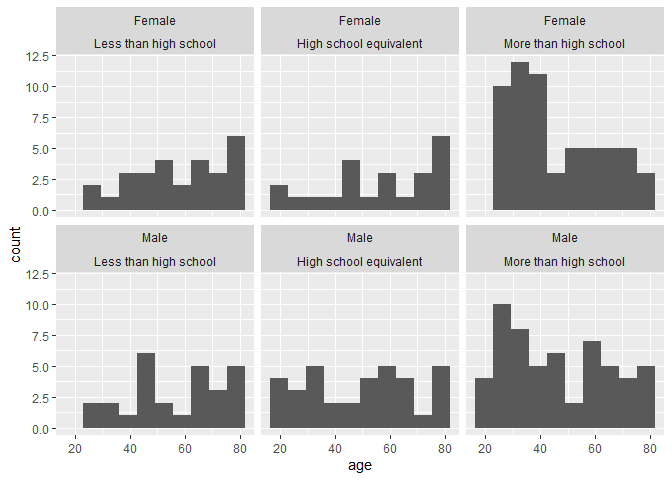
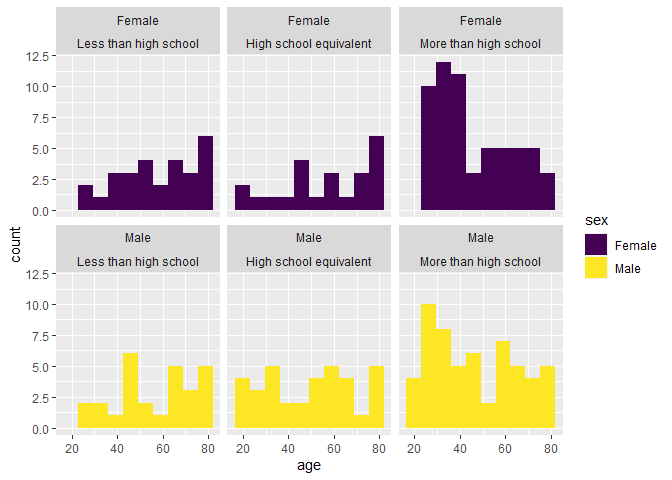
finish problem 3

diff --git a/p8105_hw3_lw3061.md b/p8105_hw3_lw3061.md
@@ -74,10 +74,11 @@ excellent_plot
 
     ## Warning: Removed 3 rows containing missing values (`geom_line()`).
 
-![](p8105_hw3_lw3061_files/figure-gfm/unnamed-chunk-4-1.png)<!-- --> The
-average data value has fluctuated over the years, with a very general
-trend of decreasing between 2002 and 2010. Most fall in the range
-between 17.5 to 27.5, but a few outlier states have average values
+![](p8105_hw3_lw3061_files/figure-gfm/unnamed-chunk-4-1.png)<!-- -->
+
+The average data value has fluctuated over the years, with a very
+general trend of decreasing between 2002 and 2010. Most fall in the
+range between 17.5 to 27.5, but a few outlier states have average values
 closer to 10 or 30.
 
 *3. Two-panel plot for `data_value` distribution in NY for 2006 vs
@@ -98,9 +99,10 @@ ny_plot = ny_state |>
 ny_plot
 ```
 
-![](p8105_hw3_lw3061_files/figure-gfm/unnamed-chunk-5-1.png)<!-- --> The
-highest `data_value` values were for the responses of `Very good` and
-`Good`. The scores tended to increase between 2006 and 2010 and the
+![](p8105_hw3_lw3061_files/figure-gfm/unnamed-chunk-5-1.png)<!-- -->
+
+The highest `data_value` values were for the responses of `Very good`
+and `Good`. The scores tended to increase between 2006 and 2010 and the
 ranges of scores per response category also widened.
 
 ## Problem 3 = NHANES
@@ -187,14 +189,15 @@ males overall.
 
 ``` r
 demo_accel |>
-  ggplot(aes(x=age)) +
+  ggplot(aes(x=age, fill=sex)) +
   geom_histogram(bins=10) +
   facet_wrap(sex~education)
 ```
 
-![](p8105_hw3_lw3061_files/figure-gfm/unnamed-chunk-8-1.png)<!-- --> The
-age distributions for less than high school and high school equivalent
-look similar across sex.
+![](p8105_hw3_lw3061_files/figure-gfm/unnamed-chunk-8-1.png)<!-- -->
+
+The age distributions for less than high school and high school
+equivalent look similar across sex.
 
 Females who had more than high school education were younger on average
 as shown by the skewed right age distribution. While males were also
@@ -220,8 +223,9 @@ demo_accel |>
 
     ## `geom_smooth()` using method = 'loess' and formula = 'y ~ x'
 
-![](p8105_hw3_lw3061_files/figure-gfm/unnamed-chunk-9-1.png)<!-- --> For
-all education categories, total activity decreased with age.
+![](p8105_hw3_lw3061_files/figure-gfm/unnamed-chunk-9-1.png)<!-- -->
+
+For all education categories, total activity decreased with age.
 
 In the less than high school category, males on average had more
 activity than females, surprisingly more at older ages. There was also a
@@ -236,5 +240,61 @@ overall, and males and females were more similar to each other. However,
 the trend lines for this education category did not really capture the
 almost “random”-looking dispersion of age and activity distribution.
 
-*4. Make a plot for the 24-hour activity time by education level and use
-color to indicate sex.*
+*4. Make a 3-panel plot for the 24-hour activity time by education level
+and use color to indicate sex.*
+
+``` r
+activity24 = demo_accel |>
+  pivot_longer(
+    min1:min1440,
+    names_to = "min",
+    values_to = "activity"
+  ) |>
+  separate(min, into=c("minname", "minnum"), sep=3) |>
+  mutate(
+  minnum = as.numeric(minnum)
+  ) 
+
+activity24 |>
+  ggplot(aes(x=minnum, y=activity, color=sex)) + 
+  geom_point(alpha=0.25, size=0.1) +
+  geom_smooth() +
+  facet_wrap(.~education) +
+  labs(
+    x = "Hour of day", y="Activity", title ="Activity over 24 hours by sex and education category"
+  )
+```
+
+    ## `geom_smooth()` using method = 'gam' and formula = 'y ~ s(x, bs = "cs")'
+
+![](p8105_hw3_lw3061_files/figure-gfm/unnamed-chunk-10-1.png)<!-- -->
+
+Most participants had activity levels between 0-2000 when looking at
+their activity data by hour.
+
+As expected, the most activity occurred during the daywith a dip in the
+early hours of the day. The peaks of all 3 panels was around midday
+
+Females tended to have more activity than males when looking at trend
+lines.
+
+Education did not seem to have an effect on amounts of activity in
+general, but when the data is filtered to people with `activity` \< 50
+per minute, those in the less than high school category trended with
+slightly more activity than the other two education categories.
+
+``` r
+activity24 |>
+  filter(activity < 50) |>
+  ggplot(aes(x=minnum, y=activity, color=sex)) + 
+  geom_point(alpha=0.25) +
+  geom_smooth() +
+  facet_wrap(.~education) +
+  labs(
+    x = "Hour of day", y="Activity", title ="Activity over 24 hours, with values <2000 excluded"
+  )
+```
+
+    ## `geom_smooth()` using method = 'gam' and formula = 'y ~ s(x, bs = "cs")'
+
+![](p8105_hw3_lw3061_files/figure-gfm/unnamed-chunk-11-1.png)<!-- -->
